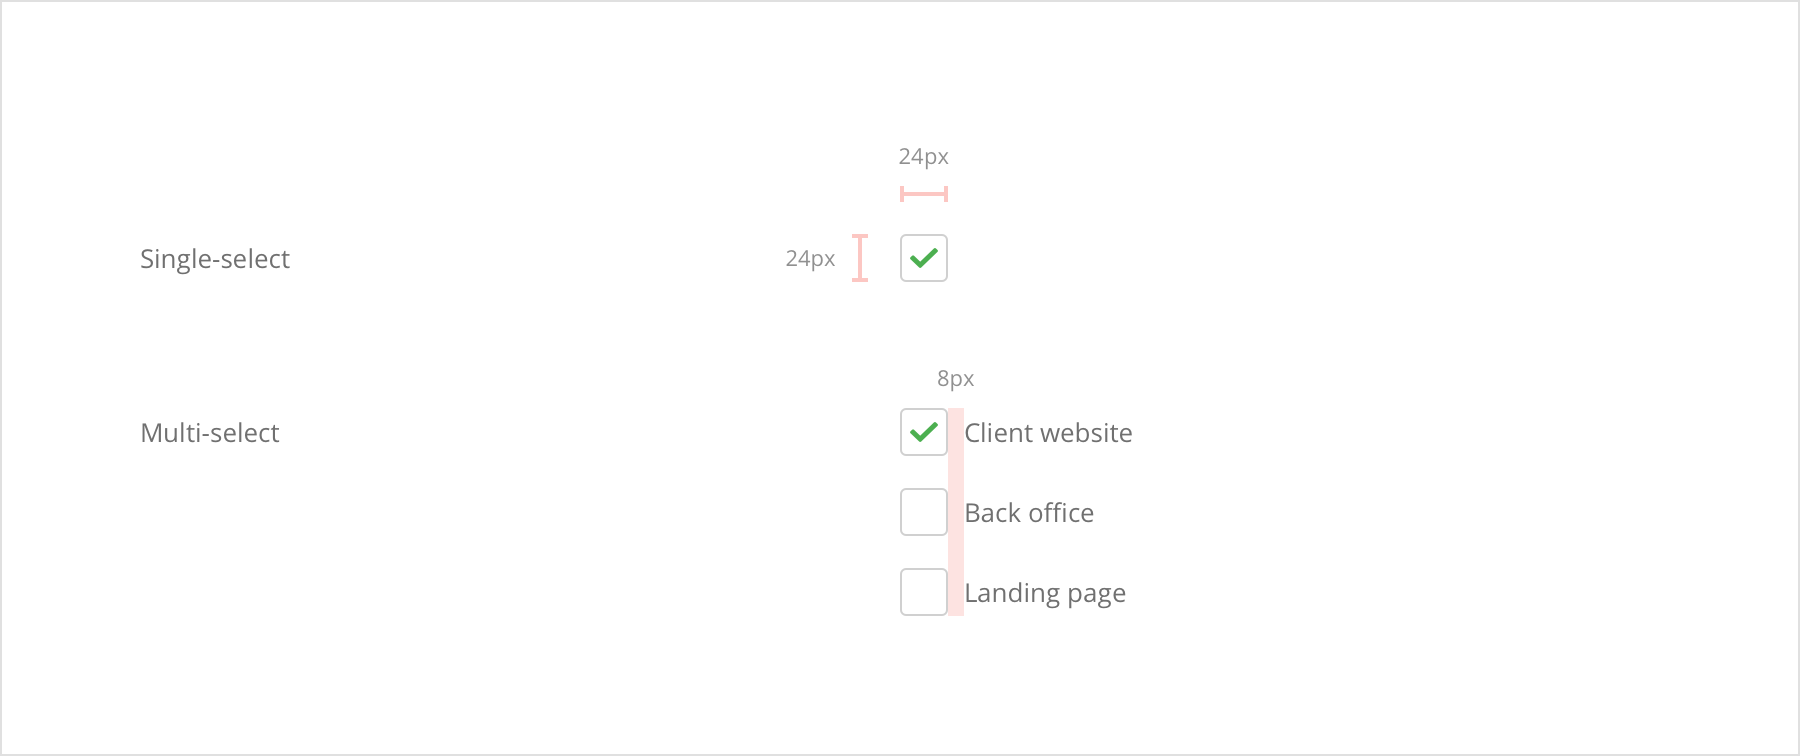
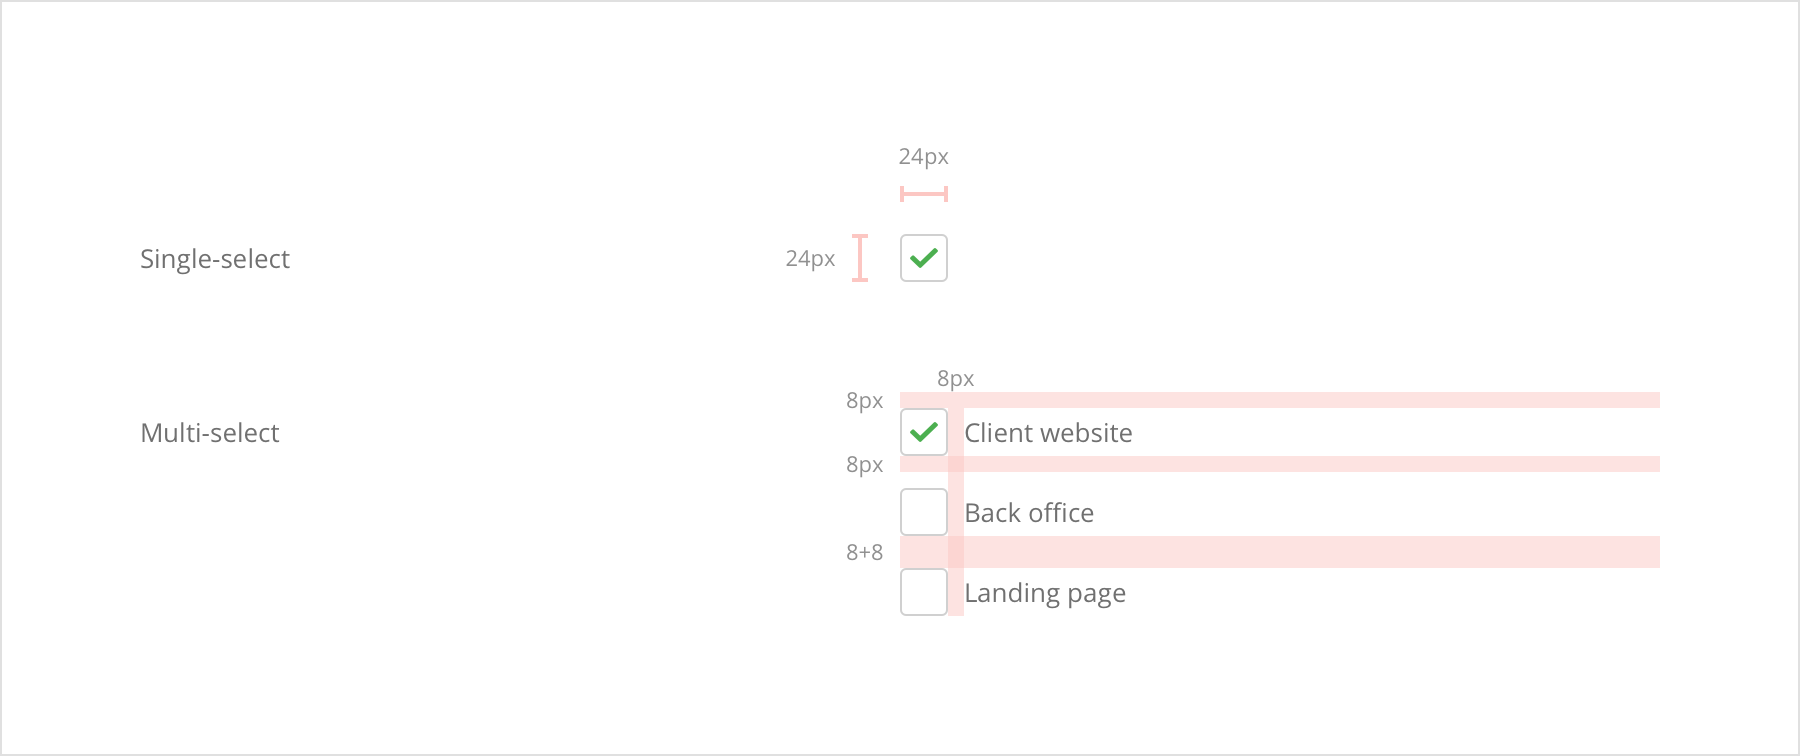
Updates atoms/checkboxes.md
Auto commit by GitBook Editor

Changed region(s): [[0.4667, 0.578, 0.9333, 0.6389], [0.4978, 0.6997, 0.9333, 0.7606], [0.4667, 0.5172, 0.9333, 0.5476]]

diff --git a/atoms/checkboxes.md b/atoms/checkboxes.md
@@ -13,6 +13,10 @@ There are two types of checboxes: **Single-select** \(without a label\) in cases
 
 #### Spacing guidelines
 
+* The width and height of the checkbox base is always 24px.
+* Multi-select checkboxes have a right margin of 8px.
+* Multi-select checkboxes have a bottom margin of 16px.
+
 ![](/assets/atoms/checkboxes-spacing.png)
 
 ### Single-select
@@ -32,7 +36,7 @@ border-radius: 3px;
 /* On hover */
 box-shadow: 1px 1px 4px 0 #E0E0E0;
 
-/* On hover */
+/* On focus */
 border: 1px solid $G200;
 
 /* Disabled */
@@ -46,4 +50,39 @@ opacity: 50%;
 Multi-select checkboxes are used when there are multiple choices, and more than one option can be selected. Like Single-select checkboxes, these ones require a submit button press as well.
 
 ![](/assets/atoms/checkboxes-multi-select-states.png)
+
+```
+/* Differences compared to the Single-select */
+
+/* Default */
+margin-right: 8px;
+margin-bottom: 16px;
+font-family: Open Sans;
+font-weight: Regular;
+font-size: 13px;
+color: $B200;
+
+/* On hover */
+color: $B300;
+
+/* On focus */
+color: $B300;
+
+/* Disabled */
+opacity: 50%;
+
+/* Error */
+border: 1px solid $G300;
+
+/* Error state message */
+margin-top: 8px;
+font-family: Open Sans;
+font-weight: Semibold;
+font-size: 11px;
+color: $R300;
+
+
+```
+
+
 
